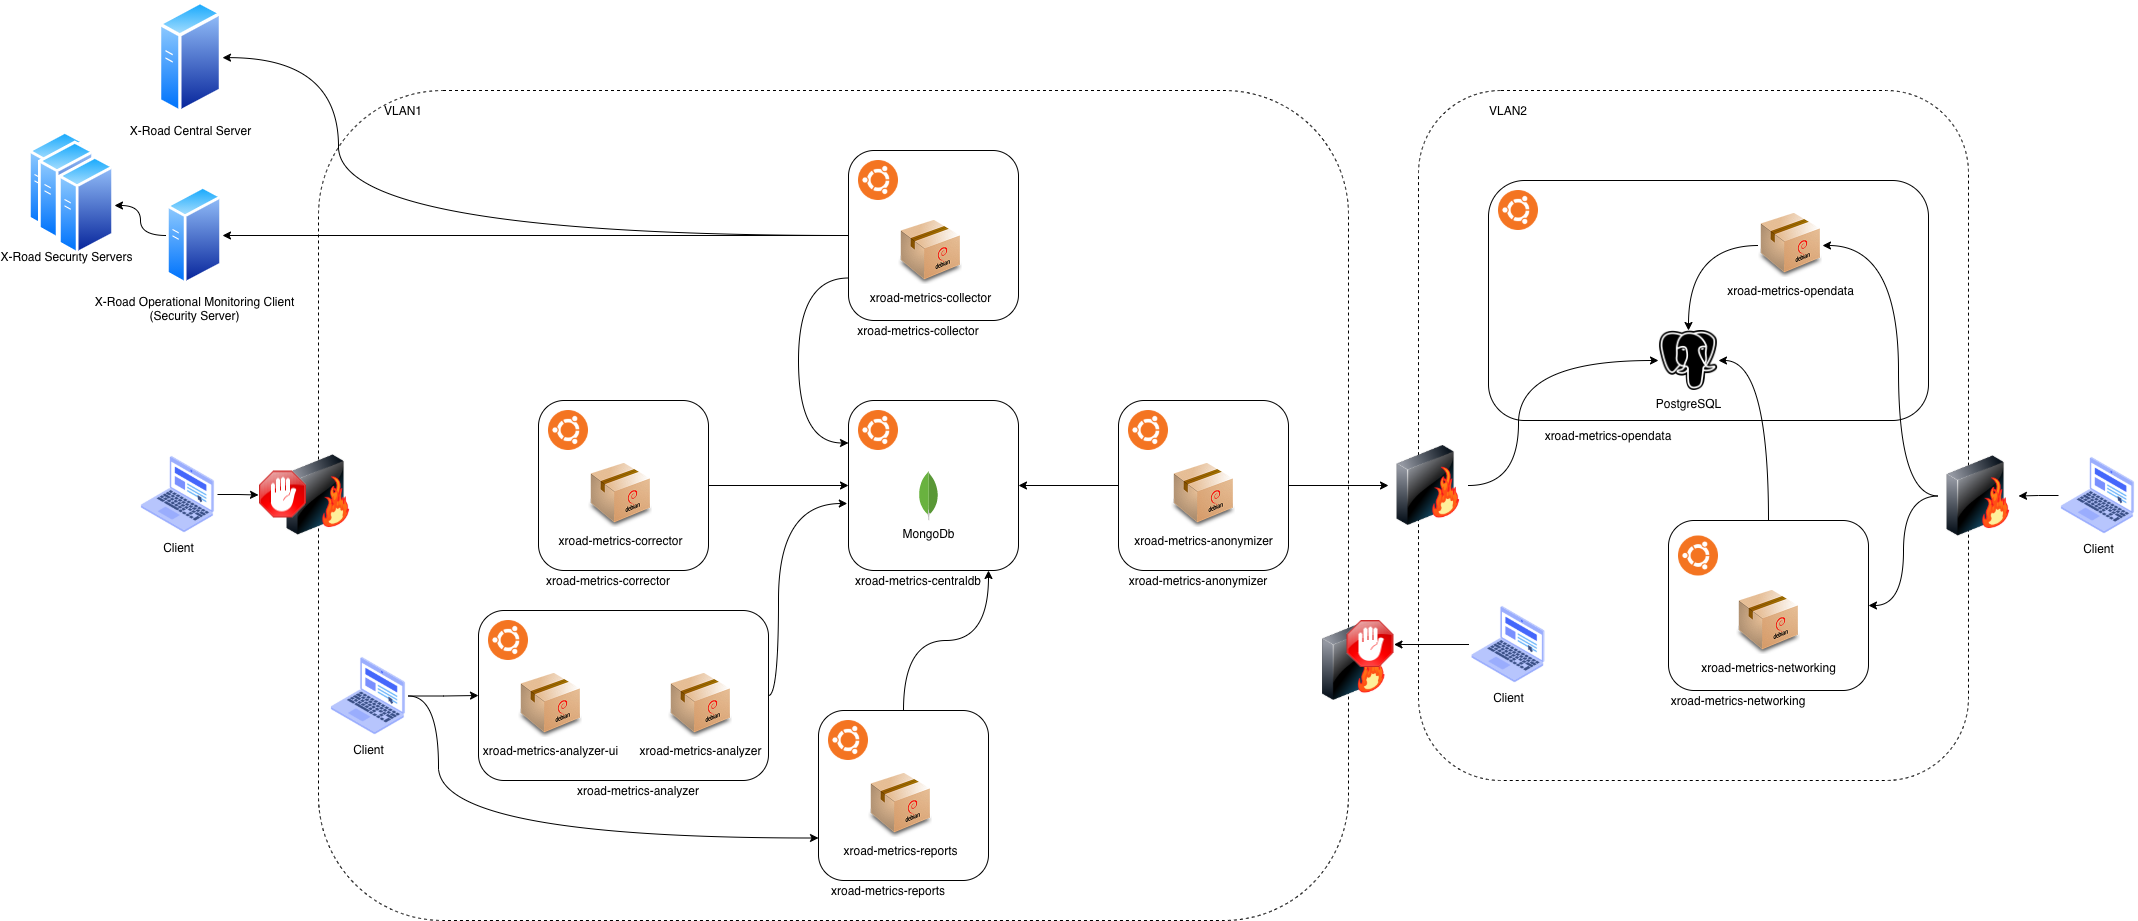
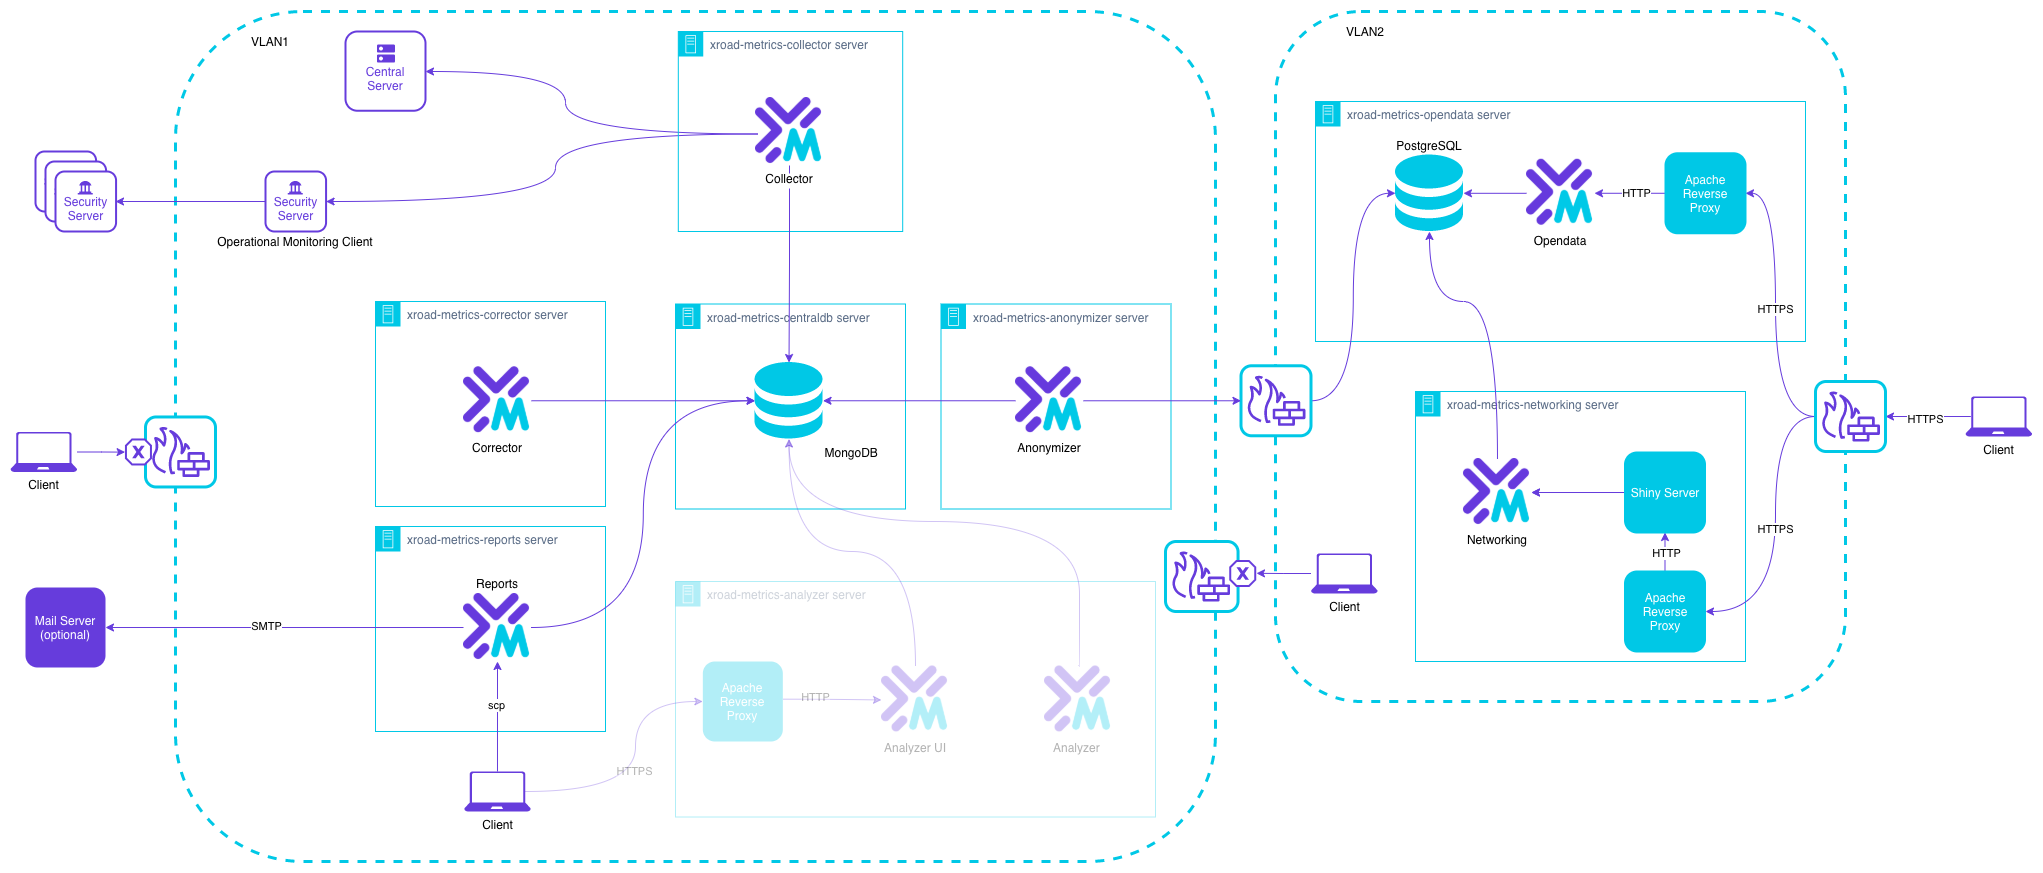
OPMONDEV-124 update architecture documentation

diff --git a/docs/system_architecture.md b/docs/system_architecture.md
@@ -24,7 +24,7 @@ The operational specifications and hardware recommendations in this documentatio
 
 ![System overview](img/system_overview.svg "System overview")
 
-## Operational specifications, X-Road instance EE (production)
+## Operational specifications
 
 Expectations and limits below are calculated based on actual usage of X-Road v5 in Estonia. 
 They might be reviewed and updated according to future usage of X-Road v6 in Estonia.
@@ -83,8 +83,45 @@ environment specific details.
 Diagram below shows an example setup where private modules are on hosts in VLAN1 and open data modules in VLAN2:
 ![Example Production Networking Infrastructure](img/xroad-metrics-prod-infra.png)
 
+The diagram includes also the experimental Analyzer module that has not been published yet.
+
 Specifications for each host in the example setup is in the following chapters.
-Ubuntu Server 20.04 is currently the only supported OS to run X-Road Metrics. 
+Ubuntu Server 20.04 is currently the only supported OS to run X-Road Metrics.
+
+
+### Software Specifications
+Ubuntu Server 20.04 is currently the only supported OS to run X-Road Metrics.
+
+In addition to the X-Road Metrics packages, following 3rd party software needs to be installed:
+ - MongoDb 4.4
+ - PostgreSQL 12.6
+ - RStudio Shiny Server 1.5.16
+
+Please refer to the module specific documentation for detailed installation instructions.
+
+
+### Network Ports
+Table below shows the network connections in the X-Road Metrics system and can be used as a reference for firewall configurations:
+
+| Server                   | Client(s)                                           | Port       | Description                                     |
+|--------------------------|-----------------------------------------------------|------------|-------------------------------------------------|
+| centraldb                | collector, corrector, reports, anonymizer           | 27017      | MongoDb                                         |
+| opendata                 | 0.0.0.0/0                                           | 443        | HTTPS to Opendata web UI (Apache)               |
+| opendata                 | anonymizer, networking                              | 5432       | PostgreSQL                                      |
+| networking               | 0.0.0.0/0                                           | 443        | HTTPS to Networking Visualizer UI (Apache)      |
+| X-Road Central Server    | collector                                           | 80/443     | internalconf API to list security servers       |
+| X-Road Monitoring Client | collector                                           | 80/443     | getSecurityServerOperationalData X-Road service |
+| SMTP server              | reports                                             | 25/465/587 | (Optional) SMTP server to send report e-mail notifications |
+| Reports file server      | reports                                             | e.g. 22    | (Optional) Sync report files to some public file server using e.g. scp or rsync |
+
+
+### HTTPS Configuration
+All connections to the web user interfaces use HTTPS protocol. The UI installation packages install Apache web server
+as a dependency. Installer creates a self signed certificate and configures the Apache to act as a reverse proxy where
+HTTPS connections are terminated. In production use the system administrator needs to add their own certificates and
+DNS settings to Apache configuration files. Please refer to each module's installation instructions for detailed 
+instructions.
+
 
 ### Hardware Recommendations
 Table below lists the recommended hardware specifications for the hosts in the
@@ -109,33 +146,6 @@ estimated size for 1 year of documents (1 billion X-Road v6 service calls (queri
 | raw_messages    | 2,000,000,000     | 900	                  | 1,500                    | 6           | 170                   |
 | clean_data      | 1,400,000,000     | 2000                  | 2,500                    | 44          | 530                   |
 | **TOTAL**       | **3,400,000,000** |                       | **4,000**                |             | **700**               |
-
-
-### Software Specifications
-X-Road Metrics is currently supported on Ubuntu Server 20.04 LTS operating systems so that should be
-used on all hosts.
-
-In addition to the X-Road Metrics packages, following 3rd party software is used:
- - MongoDb 4.4
- - PostgreSQL 12.6
- - RStudio Shiny Server 1.5.16
-
-Please refer to the module specific documentation for detailed installation instructions.
-
-### Network Ports
-Table below shows the network connections in the X-Road Metrics system and can be used as a reference for firewall configurations:
-
-| Server                   | Client(s)                                           | Port       | Description                                     |
-|--------------------------|-----------------------------------------------------|------------|-------------------------------------------------|
-| centraldb                | collector, corrector, reports, analyzer, anonymizer | 27017      | MongoDb                                         |
-| analyzer                 | clients in private network                          | 443        | HTTPS to Analyzer web UI                        |
-| opendata                 | 0.0.0.0/0                                           | 443        | HTTPS to Opendata web UI                        |
-| opendata                 | anonymizer, networking                              | 5432       | PostgreSQL                                      |
-| networking               | 0.0.0.0/0                                           | 443        | HTTPS to Networking Visualizer UI               |
-| X-Road Central Server    | collector                                           | 80/443     | internalconf API to list security servers       |
-| X-Road Monitoring Client | collector                                           | 80/443     | getSecurityServerOperationalData X-Road service |
-| SMTP server              | reports                                             | 25/465/587 | (Optional) SMTP server to send report e-mail notifications |
-| Reports file server      | reports                                             | e.g. 22    | (Optional) Sync report files to some public file server using e.g. scp or rsync |
 
 
 ### Database Module
@@ -222,7 +232,7 @@ Detailed installation instructions can be found in the [Networking module's docu
 
 
 ## Simplified Infrastructure for Testing
-To test out X-Road Metrics in a simple X-Road environment, the number of hosts can be reduced.
+When testing out X-Road Metrics in a simple X-Road environment, it is not necessary to install each module on a separate host.
 The example diagram below shows an example setup where the X-Road Metrics modules are installed on two hosts, named
 *xroad-metrics-private* and *xroad-metrics-opendata*. As with the recommended production setup, also here the private
 data in MongoDb and Opendata in PostgreSQL are isolated by a firewall setup between the hosts.
